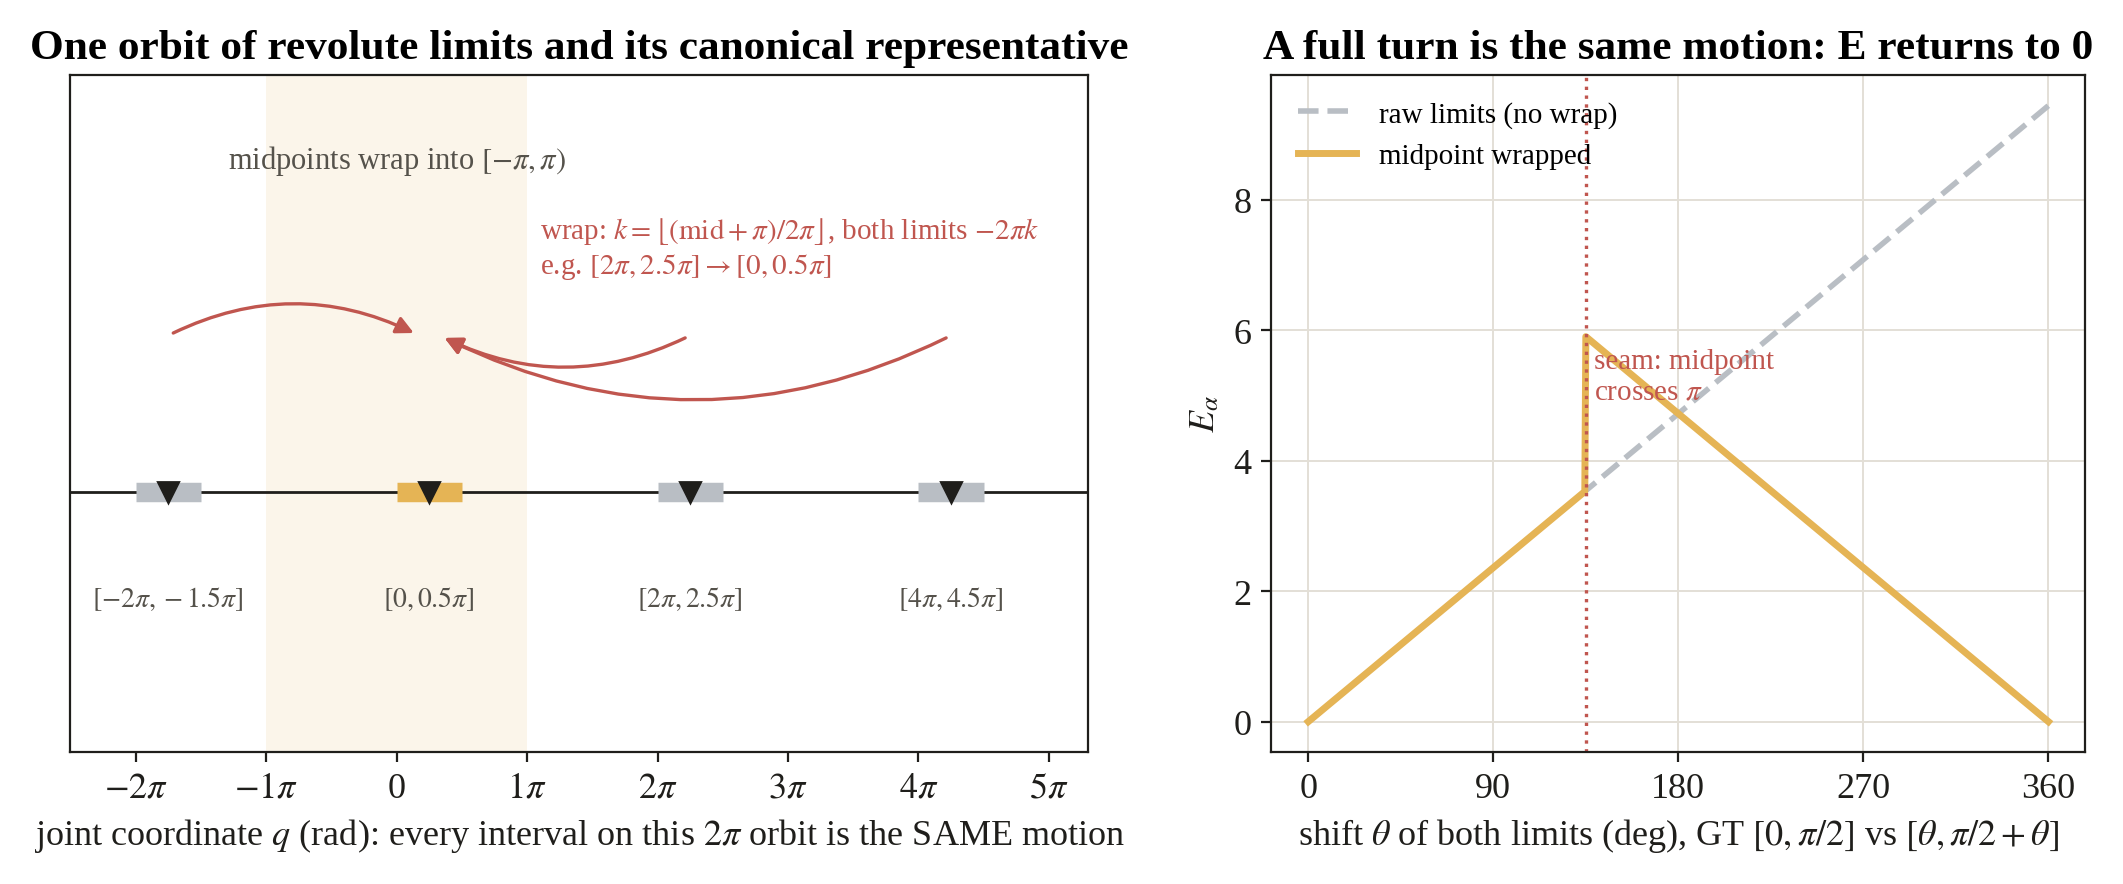
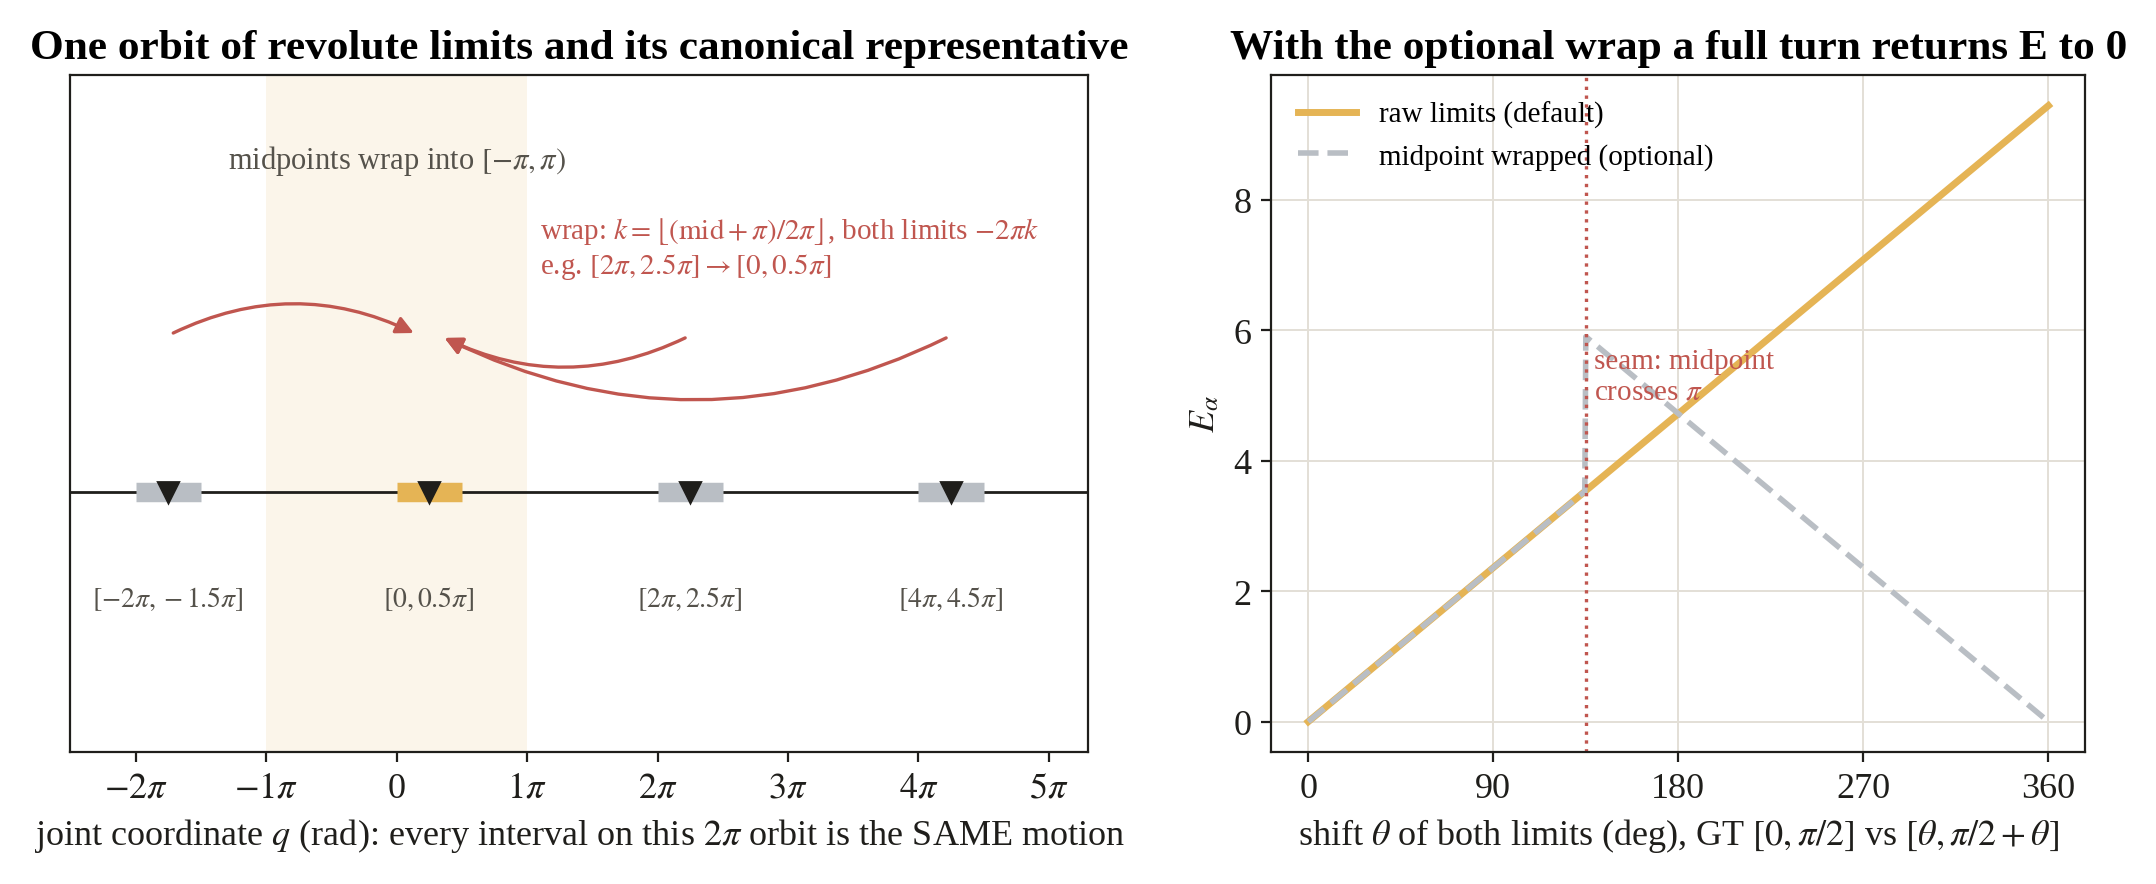
docs tutorial: the 2pi midpoint wrap is an optional preprocessing step, off by default
Claude-Session: https://claude.ai/code/session_01UGTJDdFh5wKfokSp7bZj5K

diff --git a/docs.html b/docs.html
@@ -542,25 +542,27 @@ pair  = joint_to_endpoint_pair(joint)      <span class="cm"># unordered {a*xi, b
         <h3 id="concept-gauge">4.4&ensp;Wrap and gauge symmetries</h3>
         <figure class="tut">
           <img src="./static/tutorial/revolute_wrap.png" alt="The 2 pi orbit of revolute limits and E against a shift of both limits">
-          <figcaption>Left: every interval on the 2π orbit is the same motion. The wrap keeps the one whose midpoint lies in [−π, π). Right: shifting both limits of a GT [0, π/2] by θ. With the wrap, a full turn returns E to zero. The seam at θ = 135° is where the midpoint crosses π.</figcaption>
+          <figcaption>Left: every interval on the 2π orbit is the same motion. The optional wrap keeps the one whose midpoint lies in [−π, π). Right: shifting both limits of a GT [0, π/2] by θ. The default (raw limits) keeps growing. With the wrap switched on, a full turn returns E to zero, and the seam at θ = 135° is where the midpoint crosses π.</figcaption>
         </figure>
         <p>
           A revolute exponential is <span class="math">2π</span>-periodic, so shifting both limits by
-          <span class="math">2πk</span> rewrites the same motion over the same anchor. Before forming the
-          endpoint pair, the library shifts a revolute joint's limits by the common
-          <span class="math">2πk</span> that places the midpoint <span class="math">½(l⁻ + l⁺)</span> in
-          <span class="math">[−π, π)</span> (<code>wrap_revolute_limits</code>). Only revolute joints are wrapped:
-          a prismatic shift translates and a helical shift also translates, so for them
-          <span class="math">k = 0</span> is forced.
+          <span class="math">2πk</span> rewrites the same motion over the same anchor. The definition of
+          <span class="math">E</span> uses the limits exactly as stored, so such a pair of encodings is
+          charged the shift. As an <em>optional</em> preprocessing step, <code>wrap_revolute_limits</code>
+          shifts a revolute joint's limits by the common <span class="math">2πk</span> that places the
+          midpoint <span class="math">½(l⁻ + l⁺)</span> in <span class="math">[−π, π)</span>, and
+          <code>joint_to_endpoint_pair(joint, wrap_revolute=True)</code> applies it before forming the pair.
+          Only revolute joints can be wrapped: a prismatic shift translates and a helical shift also
+          translates, so for them <span class="math">k = 0</span> is forced.
         </p>
         <div class="confusion">
-          <strong>The wrap has a seam.</strong> Picking one representative per orbit is a choice of fundamental
+          <strong>Off by default.</strong> Nothing in the library or the benchmark wraps unless asked. The stored
+          limits are the data the metric judges, and the stored state pins the anchor, so a full-turn shift is
+          treated like any other re-encoding the file could have avoided.
+          <br><strong>The wrap has a seam.</strong> Picking one representative per orbit is a choice of fundamental
           domain, and at its boundary (midpoint exactly <span class="math">±π</span>) the representative jumps.
-          <span class="math">E</span> is invariant under the full-turn shift but is discontinuous there. On the
-          benchmark this locus has measure zero and, in practice, real limits rarely have a midpoint near
-          <span class="math">±π</span>. The raw limits stay stored on the <code>Joint</code>, so the prior
-          component scores still see the unwrapped encoding, which is exactly the failure the paper's table
-          documents.
+          With the wrap on, <span class="math">E</span> is invariant under the full-turn shift but is
+          discontinuous there, which is the other reason it stays optional.
         </div>
         <figure class="tut">
           <img src="./static/tutorial/prismatic_gauge.png" alt="Two prismatic joints with different drawn origins have identical twists">

diff --git a/scripts/make_tutorial_figures.py b/scripts/make_tutorial_figures.py
@@ -266,11 +266,11 @@ def fig_revolute_wrap() -> None:
     for th in thetas:
         pred = Joint(xi_hat=xi, a=lo + th, b=hi + th, joint_type="revolute")
         p_raw = make_endpoint_pair(xi, pred.a, pred.b)
-        p_wr = joint_to_endpoint_pair(pred)
+        p_wr = joint_to_endpoint_pair(pred, wrap_revolute=True)
         raw.append(_E(g, p_raw)); wrapped.append(_E(g, p_wr))
     deg = np.degrees(thetas)
-    ax2.plot(deg, raw, color=GREY, linestyle="--", linewidth=2, label="raw limits (no wrap)")
-    ax2.plot(deg, wrapped, color=AMBER, linewidth=2.5, label="midpoint wrapped")
+    ax2.plot(deg, raw, color=AMBER, linewidth=2.5, label="raw limits (default)")
+    ax2.plot(deg, wrapped, color=GREY, linestyle="--", linewidth=2, label="midpoint wrapped (optional)")
     seam = 135
     ax2.axvline(seam, color=BRICK, linestyle=":", linewidth=1.2)
     ax2.text(seam + 4, max(wrapped) * 0.97, "seam: midpoint\ncrosses $\\pi$", color=BRICK, fontsize=10.5, va="top")
@@ -278,7 +278,7 @@ def fig_revolute_wrap() -> None:
     ax2.set_ylabel(r"$E_\alpha$")
     ax2.set_xticks([0, 90, 180, 270, 360])
     ax2.legend(frameon=False, fontsize=10.5, loc="upper left")
-    ax2.set_title("A full turn is the same motion: E returns to 0")
+    ax2.set_title("With the optional wrap a full turn returns E to 0")
     _clean(ax2)
     _save(fig, "revolute_wrap.png")
 
